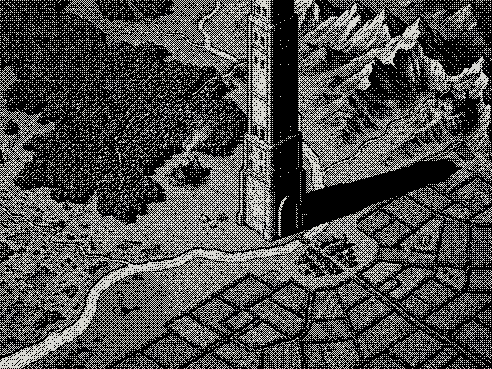
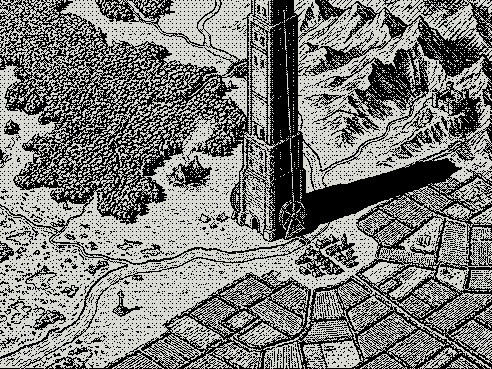
0.108.0 — 082 phase-1c: door sells the tower's scale; pixel bolt on the chip
- New floor-1 art: small first-floor-scale door, winch turn-wheels,
  cable line up the shaft. Marker coords re-placed.
- _map_html chip cost goes through _et — the ⚡ becomes the 1-bit bolt
  glyph in the chip ink; .mk .eg sized 12px.

Changed region(s): [[0.0, 0.0, 1.0, 1.0]]

diff --git a/plugin_linear_ascent/engine/floormap.py b/plugin_linear_ascent/engine/floormap.py
@@ -29,17 +29,18 @@ KEY = "floormap"
 # kind) or None; kind names the ink ("en" = energy teal).
 LAYOUTS: dict[int, dict[str, tuple]] = {
     1: {
-        "gate": (54, 40, "GATE",
+        "gate": (56, 40, "GATE",
                  "The tower — the elevator between floors.", None),
         # phase-1b (roy): Roothollow is NOT on this floor — it is the
-        # base town at the elevator bottom. The chip stands at the
-        # tower's massive door and says the town's NAME, not "town".
-        "town": (58, 64, "ROOTHOLLOW",
+        # base town at the elevator bottom. The chip stands on the
+        # village at the tower's foot and says the town's NAME, not
+        # "town". (phase-1c: coords re-placed on the small-door art.)
+        "town": (63, 69, "ROOTHOLLOW",
                  "Down the tower to Roothollow — shops, forge, bank.",
                  None),
-        "talk": (44, 63, "CAMP",
+        "talk": (43, 60, "CAMP",
                  "The fire — Hobb Fennick's talk.", None),
-        "keep": (90, 31, "@warden",
+        "keep": (91, 26, "@warden",
                  "The Warden's keep — beat him to open the floor above.",
                  None),
         "hunt": (72, 84, "HUNT",

diff --git a/plugin_linear_ascent/render.py b/plugin_linear_ascent/render.py
@@ -211,7 +211,7 @@ def _map_html(scene: Scene, mp: dict, art: tuple[str, int, int]) -> str:
         if m.get("cost"):
             ink = _MAP_COST_INK.get(str(m.get("ck") or ""), DIM)
             cost = (f'<span class="mkcost" style="color:{ink}">'
-                    f'{_e(str(m["cost"]))}</span>')
+                    f'{_et(str(m["cost"]))}</span>')
         tip = (f'<span class="mtip{tipcls}">{_e(str(m.get("tip") or ""))}'
                "</span>" if m.get("tip") else "")
         chips.append(
@@ -3449,6 +3449,7 @@ SCENE_CSS = f"""
  outline:none;z-index:10;}}
 .mk:hover .mkcost,.mk:focus-visible .mkcost{{color:{INK}!important;}}
 .mk .mkcost{{margin-left:1ch;}}
+.mk .eg{{width:12px;height:12px;vertical-align:-2px;}}
 .mk .mtip{{display:none;position:absolute;bottom:calc(100% + 5px);
  left:50%;transform:translateX(-50%);background:{INK};color:{TEXT};
  padding:.5rem 1.5ch;width:max-content;max-width:40ch;

diff --git a/tests/test_082_floormap.py b/tests/test_082_floormap.py
@@ -57,6 +57,19 @@ def test_cost_on_chip_rule():
     assert mk["town"]["label"] == "ROOTHOLLOW"
 
 
+def test_chip_cost_wears_pixel_bolt_not_emoji():
+    # phase-1c: the chip cost paints the 1-bit bolt glyph like every
+    # other energy amount — the raw emoji never reaches the screen.
+    p, s = _at_camp("u-bolt")
+    labs.set_flag(p, "floormap", True)
+    s = core.current_scene(p)
+    html = render.render_scene_fragment(s)
+    i = html.index('class="mkcost')
+    frag = html[i:html.index("</span>", i)]
+    assert "⚡" not in frag
+    assert 'class="eg"' in frag
+
+
 def test_npc_scene_keeps_rows_no_map():
     # phase-1b bug fix: the Hobb card must NOT re-render the map — its
     # rows are the same _gate_town_options and all got mapped away,

diff --git a/plugin_linear_ascent/version.py b/plugin_linear_ascent/version.py
@@ -1,1 +1,1 @@
-VERSION = "0.107.0"
+VERSION = "0.108.0"
